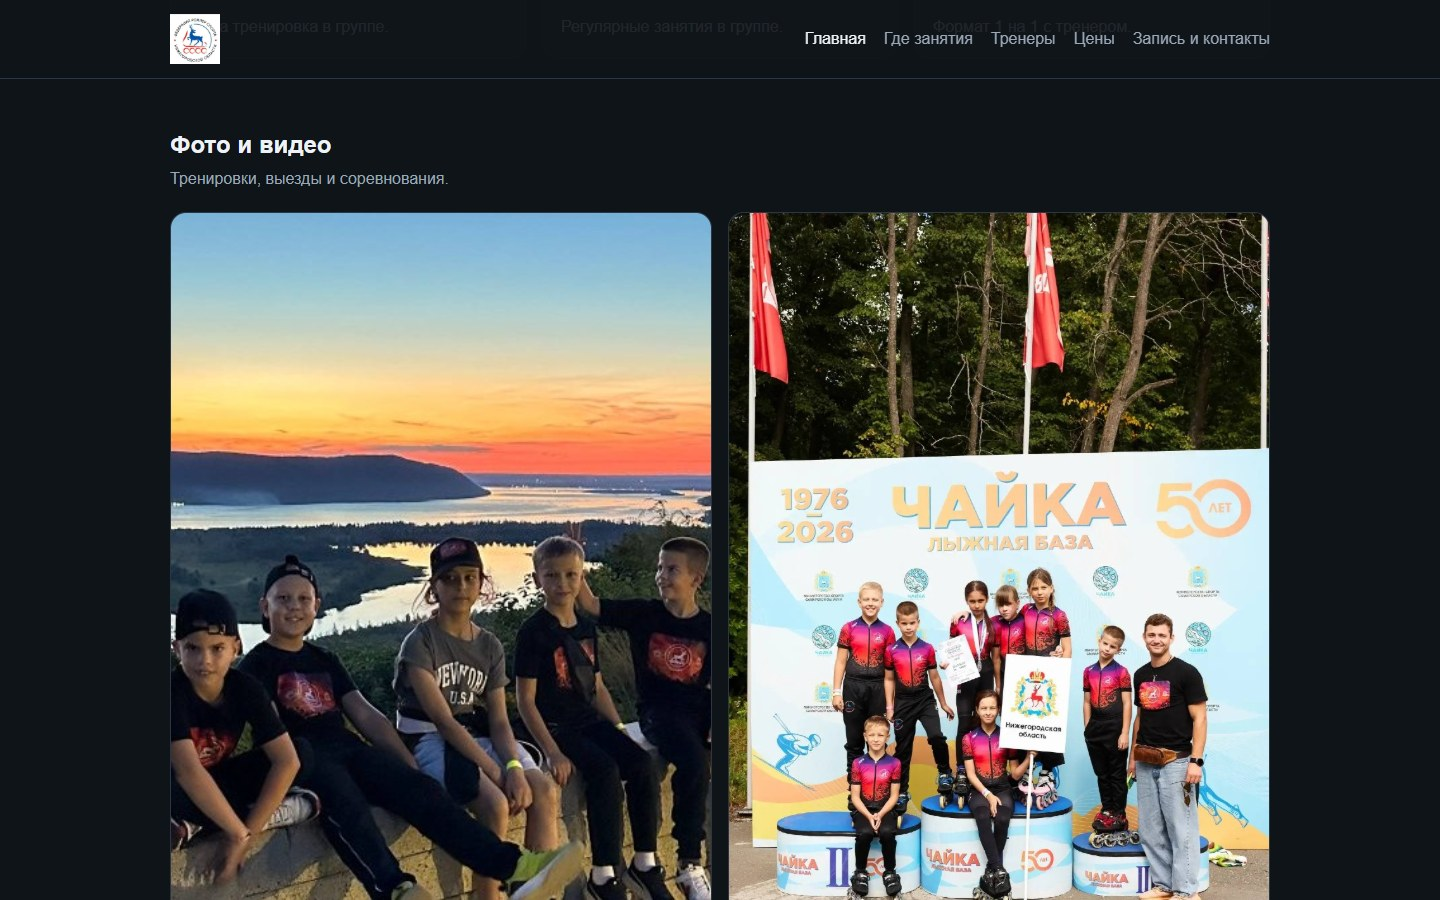
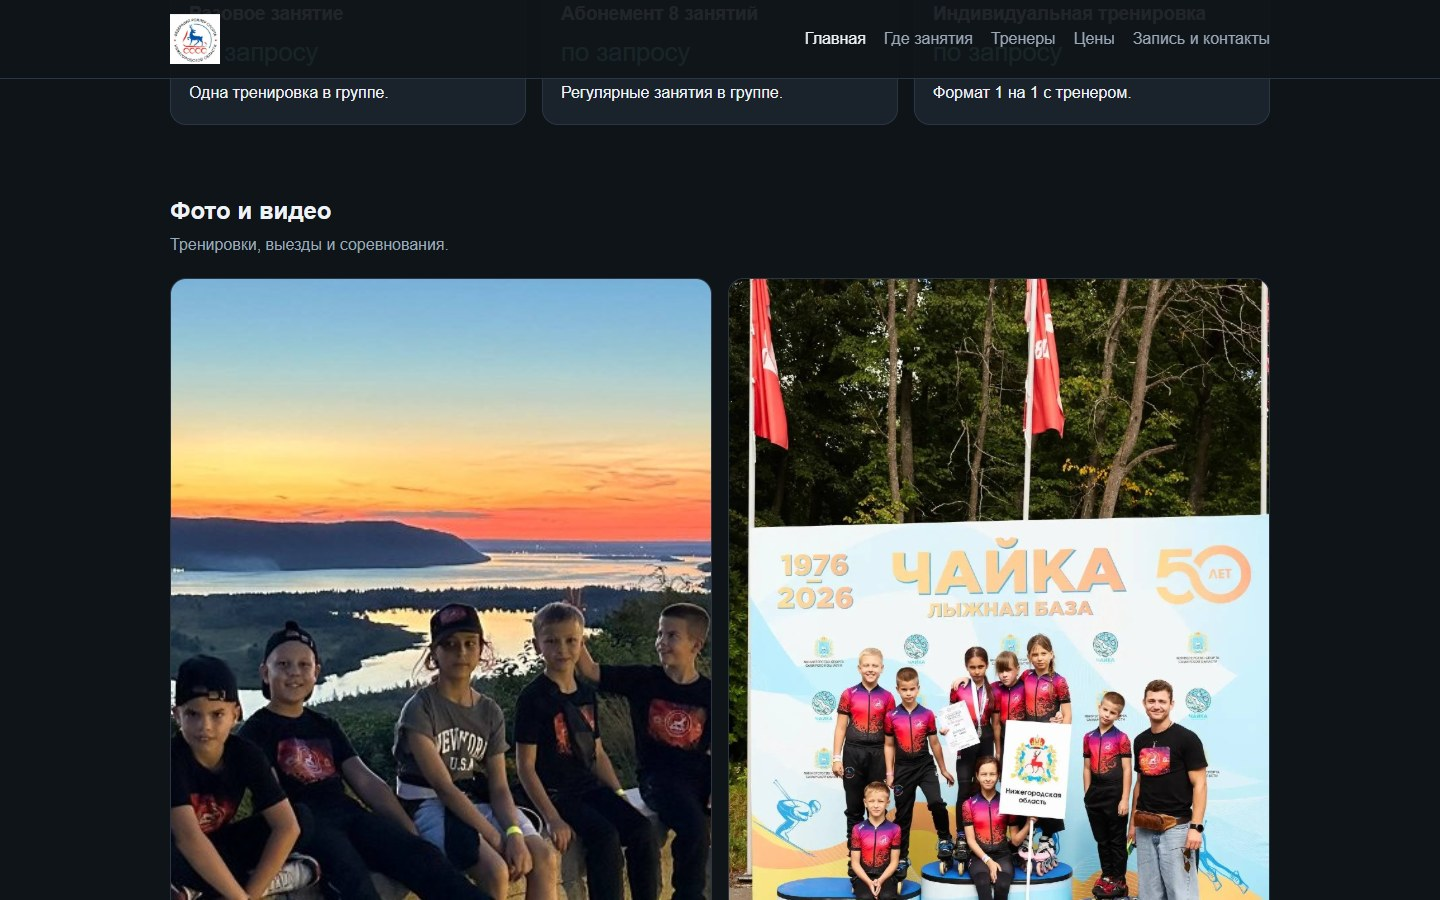
Add files via upload

diff --git a/js/projects.js b/js/projects.js
@@ -71,7 +71,7 @@ window.PROJECTS = [
         title: "Dimzerz",
         subtitle: "Сайт скейт-оператора и филмера",
         year: "2026",
-        status: "wip",
+        status: "done",
         cover: "assets/dimzerz-index.jpg",
         gallery: [
             { src: "assets/dimzerz-index.jpg", mobile: "assets/dimzerz-index-m.jpg", caption: "Обложка с фоновым видео и рассказом об авторе" },
@@ -83,8 +83,32 @@ window.PROJECTS = [
             "Сайт-портфолио скейт-оператора Dimzerz (Дмитрий Забозлаев), перенесённый с Tilda на чистый код: обложка с фоновым видео, главные видеопроекты, плейлист, фото и блок поддержки автора.",
             "Ролики с YouTube показываются превью с кнопкой Play, а плеер загружается только по клику — страница открывается быстрее. Плейлист и кнопки доната собираются из данных в скрипте: чтобы добавить видео или способ оплаты, не нужно трогать вёрстку."
         ],
-        role: "Перенос с Tilda, вёрстка, адаптив, плейлист и слайдер",
+        role: "Дизайн и адаптив, мобильное меню",
         stack: ["HTML", "CSS", "JavaScript", "YouTube"],
+        links: {
+            demo: "",
+            code: ""
+        }
+    },
+    {
+        slug: "roliki",
+        title: "Секция роллерспорта",
+        subtitle: "Сайт спортивной секции в Нижнем Новгороде",
+        year: "2026",
+        status: "wip",
+        cover: "assets/roliki-index.jpg",
+        gallery: [
+            { src: "assets/roliki-index.jpg", mobile: "assets/roliki-index-m.jpg", caption: "Главная: первый экран с видео тренировки" },
+            { src: "assets/roliki-place.jpg", mobile: "assets/roliki-place-m.jpg", caption: "Место занятий, расписание и тренеры" },
+            { src: "assets/roliki-media.jpg", mobile: "assets/roliki-media-m.jpg", caption: "Фото с выездов и соревнований" },
+            { src: "assets/roliki-contact.jpg", mobile: "assets/roliki-contact-m.jpg", caption: "Страница записи: форма и телефоны тренеров" }
+        ],
+        description: [
+            "Сайт секции роллерспорта Федерации роллер спорта Нижегородской области: о секции, место и расписание занятий, тренеры, цены, фото и видео.",
+            "На странице записи — форма, которая проверяет имя, телефон и группу и открывает почтовый клиент с готовым письмом, контакты тренеров и Яндекс Карта с адресом площадки."
+        ],
+        role: "Дизайн и вёрстка, форма записи, адаптив",
+        stack: ["HTML", "CSS", "JavaScript"],
         links: {
             demo: "",
             code: ""

diff --git a/js/main.js b/js/main.js
@@ -240,13 +240,21 @@
     }
 
     // Главная: сетка карточек
+    // Сколько проектов видно сразу; остальные открываются кнопкой «Ещё»
+    var VISIBLE_PROJECTS = 3;
+
     var grid = document.querySelector("[data-project-grid]");
     if (grid) {
         document.title = (owner.name || "Портфолио") + " — проекты";
+        grid.id = grid.id || "project-grid";
 
-        projects.forEach(function (p) {
+        projects.forEach(function (p, i) {
             var card = el("a", "card");
             card.href = "project.html?id=" + encodeURIComponent(p.slug);
+            if (i >= VISIBLE_PROJECTS) {
+                card.classList.add("card-extra");
+                card.hidden = true;
+            }
 
             var media = el("div", "card-media");
             var img = el("img");
@@ -282,6 +290,30 @@
 
             grid.appendChild(card);
         });
+
+        var extra = grid.querySelectorAll(".card-extra");
+        if (extra.length) {
+            var moreText = "Ещё";
+            var more = el("button", "more-btn", moreText);
+            more.type = "button";
+            more.setAttribute("aria-expanded", "false");
+            more.setAttribute("aria-controls", grid.id);
+
+            more.addEventListener("click", function () {
+                var open = more.getAttribute("aria-expanded") !== "true";
+                extra.forEach(function (card) { card.hidden = !open; });
+                more.setAttribute("aria-expanded", String(open));
+                more.textContent = open ? "Свернуть" : moreText;
+                // Свернули, а заголовок «Проекты» ушёл за экран — возвращаем к нему,
+                // чтобы не остаться внизу страницы. Отступ сверху (scroll-margin-top) — под липкую шапку.
+                var section = grid.closest("section") || grid;
+                if (!open && section.getBoundingClientRect().top < 0) section.scrollIntoView({ block: "start" });
+            });
+
+            var moreWrap = el("div", "more-wrap");
+            moreWrap.appendChild(more);
+            grid.after(moreWrap);
+        }
     }
 
     // Страница проекта: project.html?id=<slug>

diff --git a/css/style.css b/css/style.css
@@ -126,6 +126,8 @@ a {
 
 .section {
     padding: 0 0 96px;
+    /* Переходы по #якорям и прокрутка из JS не прячут заголовок под липкой шапкой */
+    scroll-margin-top: 80px;
 }
 
 .section-head {
@@ -181,6 +183,74 @@ a {
 
 .card:hover .card-media img {
     transform: scale(1.03);
+}
+
+/* Скрытые проекты и кнопка «Ещё» */
+/* .card задаёт display: flex и перебивает атрибут hidden — возвращаем скрытие явно */
+.card[hidden] {
+    display: none;
+}
+
+.card-extra:not([hidden]) {
+    animation: card-in 0.35s ease;
+}
+
+@keyframes card-in {
+    from {
+        opacity: 0;
+        transform: translateY(12px);
+    }
+}
+
+.more-wrap {
+    display: flex;
+    justify-content: center;
+    margin-top: 32px;
+}
+
+.more-btn {
+    display: inline-flex;
+    align-items: center;
+    gap: 8px;
+    padding: 9px 20px;
+    border: 1px solid var(--line);
+    border-radius: 999px;
+    background: var(--surface);
+    color: var(--text);
+    font: inherit;
+    font-size: 0.92rem;
+    cursor: pointer;
+    transition: border-color 0.2s ease, color 0.2s ease;
+}
+
+.more-btn::after {
+    content: "";
+    width: 6px;
+    height: 6px;
+    border-right: 1.5px solid currentColor;
+    border-bottom: 1.5px solid currentColor;
+    transform: translateY(-2px) rotate(45deg);
+    transition: transform 0.2s ease;
+}
+
+.more-btn[aria-expanded="true"]::after {
+    transform: translateY(2px) rotate(-135deg);
+}
+
+.more-btn:hover {
+    border-color: var(--accent);
+    color: var(--accent);
+}
+
+.more-btn:focus-visible {
+    outline: 2px solid var(--accent);
+    outline-offset: 2px;
+}
+
+@media (prefers-reduced-motion: reduce) {
+    .card-extra:not([hidden]) {
+        animation: none;
+    }
 }
 
 /* Мини-телефон на обложке карточки */
